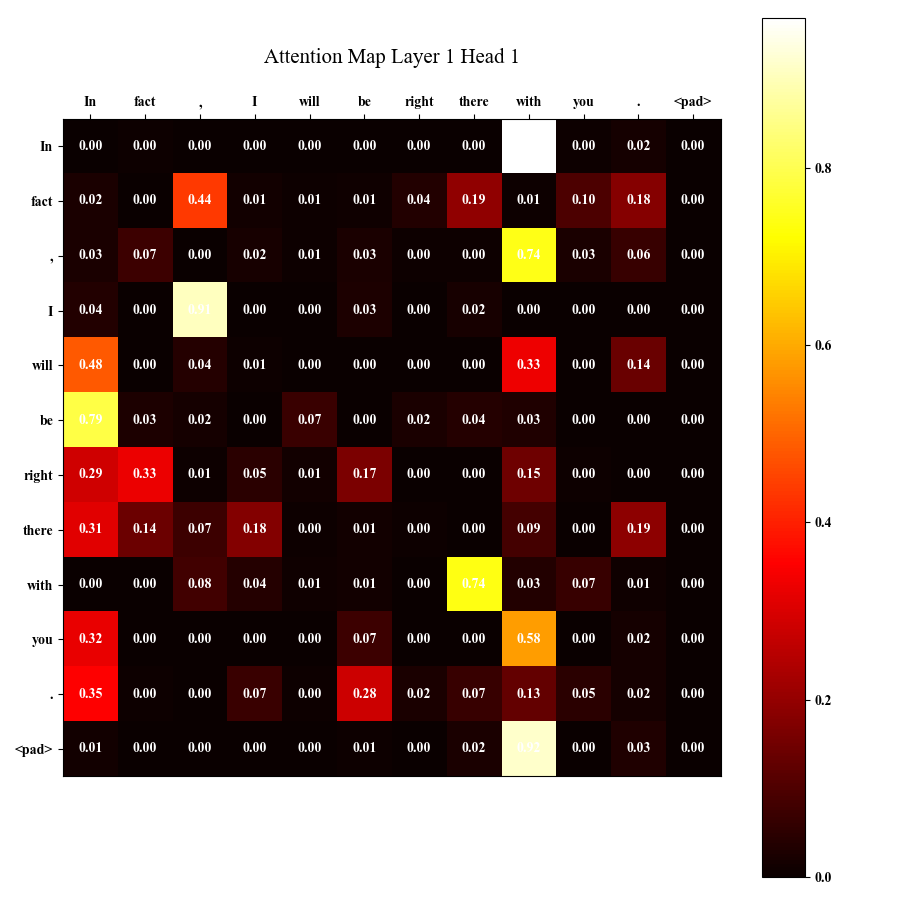
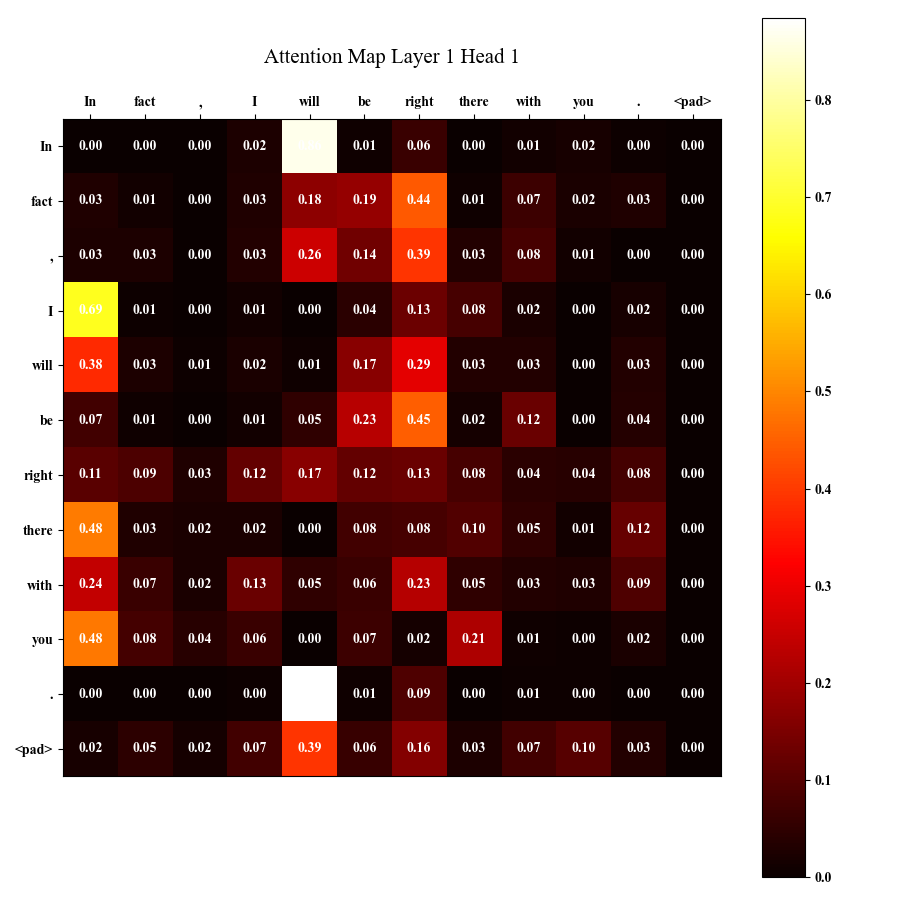
add cls token for cls

diff --git a/PA2/main.py b/PA2/main.py
@@ -2,9 +2,9 @@ import torch
 from torch.utils.data import DataLoader
 from torch.nn.utils.rnn import pad_sequence
 import os
-from tokenizer import SimpleTokenizer
-from dataset import SpeechesClassificationDataset, LanguageModelingDataset
-from transformer import ClassificationEncoder, Decoder, ClassificationEncoderAlibi, ClassificationEncoderWindowAttention, ClassificationEncoderDeberta
+from tokenizer import SimpleTokenizer, SimpleTokenizerWithCLS
+from dataset import SpeechesClassificationDataset, LanguageModelingDataset, SpeechesClassificationDatasetWithCLS
+from transformer import ClassificationEncoder, Decoder, ClassificationEncoderAlibi, ClassificationEncoderWindowAttention, ClassificationEncoderDeberta, ClassificationEncoderCLSToken
 from tqdm import tqdm
 import torch.nn as nn
 import torch.optim as optim
@@ -140,12 +140,20 @@ def main():
 
     print("Loading data and creating tokenizer ...")
     texts = load_texts("speechesdataset")
-    tokenizer = SimpleTokenizer(" ".join(texts))
+    if "cls_token" not in args.run:
+        tokenizer = SimpleTokenizer(" ".join(texts))
+    else:
+        tokenizer = SimpleTokenizerWithCLS(" ".join(texts))
     print("Vocabulary size is", tokenizer.vocab_size)
 
-    if "encoder" in args.run:
+    if "encoder" in args.run and "cls_token" not in args.run:
         train_CLS_dataset = SpeechesClassificationDataset(tokenizer, "speechesdataset/train_CLS.tsv")
         test_CLS_dataset = SpeechesClassificationDataset(tokenizer, "speechesdataset/test_CLS.tsv")
+        train_CLS_loader = DataLoader(train_CLS_dataset, batch_size=batch_size, collate_fn=collate_batch, shuffle=True)
+        test_CLS_loader = DataLoader(test_CLS_dataset, batch_size=batch_size, collate_fn=collate_batch, shuffle=True)
+    else:
+        train_CLS_dataset = SpeechesClassificationDatasetWithCLS(tokenizer, "speechesdataset/train_CLS.tsv")
+        test_CLS_dataset = SpeechesClassificationDatasetWithCLS(tokenizer, "speechesdataset/test_CLS.tsv")
         train_CLS_loader = DataLoader(train_CLS_dataset, batch_size=batch_size, collate_fn=collate_batch, shuffle=True)
         test_CLS_loader = DataLoader(test_CLS_dataset, batch_size=batch_size, collate_fn=collate_batch, shuffle=True)
 
@@ -177,6 +185,20 @@ def main():
 
     if args.run == "encoder_classic_mean":
         classification_encoder = ClassificationEncoder(
+            vocab_size=tokenizer.vocab_size,
+            embed_size=n_embd,
+            num_layers=n_layer,
+            heads=n_head,
+            device=device,
+            feed_forward_dimension=100,
+            dropout=0.1,
+            max_length=block_size,
+            pad_idx=0,
+            cls_hidden_size=n_hidden,
+            num_classes=n_output
+        )
+    elif args.run == "encoder_cls_token":
+        classification_encoder = ClassificationEncoderCLSToken(
             vocab_size=tokenizer.vocab_size,
             embed_size=n_embd,
             num_layers=n_layer,

diff --git a/PA2/transformer.py b/PA2/transformer.py
@@ -324,6 +324,41 @@ class ClassificationEncoder(nn.Module):
         out = self.classification_hidden(out)
         out = self.classification_head(out)
         return out, attention_matrices
+    
+
+class ClassificationEncoderCLSToken(nn.Module):
+    def __init__(self, vocab_size, embed_size, num_layers, heads, device, feed_forward_dimension, dropout, max_length, pad_idx, cls_hidden_size, num_classes):
+        super(ClassificationEncoderCLSToken, self).__init__()
+        self.embed_size = embed_size
+        self.device = device
+        self.word_embedding = nn.Embedding(vocab_size, embed_size)
+        # self.position_embedding = nn.Embedding(max_length, embed_size)
+        self.position_embedding = PositionalEncoding(embed_size, max_length)
+        self.layers = nn.ModuleList([TransformerBlock(embed_size, heads, dropout, feed_forward_dimension) for _ in range(num_layers)])
+        self.dropout = nn.Dropout(dropout)
+        self.classification_hidden = nn.Linear(embed_size, cls_hidden_size)
+        self.classification_head = nn.Linear(cls_hidden_size, num_classes)
+        self.pad_idx = pad_idx
+
+    def make_src_mask(self, src):
+        src_mask = (src != self.pad_idx).unsqueeze(1).unsqueeze(2)
+        # print(src_mask)
+        return src_mask.to(self.device)
+
+    def forward(self, x):
+        N, seq_length = x.shape
+        mask = self.make_src_mask(x)
+        # print(mask)
+        pos_embed = self.position_embedding().unsqueeze(0).expand(N, -1, -1)[:, :seq_length, :]
+        attention_matrices = []
+        out = self.dropout((self.word_embedding(x) + pos_embed))
+        for layer in self.layers:
+            out, attention = layer(out, out, out, mask)
+            attention_matrices.append(attention.detach().cpu())
+        cls_embedding = out[:, 0, :]
+        out = self.classification_hidden(cls_embedding)
+        out = self.classification_head(out)
+        return out, attention_matrices
 
 
 class ClassificationEncoderDeberta(nn.Module):

diff --git a/PA2/dataset.py b/PA2/dataset.py
@@ -40,6 +40,47 @@ class SpeechesClassificationDataset(Dataset):
         label_tensor = torch.tensor(label, dtype=torch.long)
 
         return input_ids, label_tensor
+    
+
+class SpeechesClassificationDatasetWithCLS(Dataset):
+    """
+    Dataset class for text classification task.
+    This the dataset you will use to train your encoder, and classifier jointly, 
+    end-to-end for the text classification task.
+
+    Args:
+        tokenizer (Tokenizer): The tokenizer used to encode the text.
+        file_path (str): The path to the file containing the speech classification data.
+
+    """
+
+    def __init__(self, tokenizer, file_path):
+        self.tokenizer = tokenizer
+        self.samples = []
+
+        if not os.path.exists(file_path):
+            raise FileNotFoundError(f"The file {file_path} does not exist.")
+
+        with open(file_path, "r", encoding="utf-8") as file:
+            for line in file:
+                label, text = line.strip().split("\t")
+                if label not in ("0", "1", "2"):
+                    raise ValueError(f"Invalid label: {label}")
+                if len(text.strip()) == 0:
+                    continue
+                self.samples.append((int(label), text))
+
+    def __len__(self):
+        return len(self.samples)
+
+    def __getitem__(self, index):
+        label, text = self.samples[index]
+        cls_token_id = self.tokenizer.stoi.get("<cls>", 2)
+        input_ids = [cls_token_id] + self.tokenizer.encode(text)
+        input_ids = torch.tensor(input_ids, dtype=torch.long)
+        label_tensor = torch.tensor(label, dtype=torch.long)
+
+        return input_ids, label_tensor
 
 
 class LanguageModelingDataset(torch.utils.data.Dataset):

diff --git a/PA2/tokenizer.py b/PA2/tokenizer.py
@@ -32,3 +32,35 @@ class SimpleTokenizer:
     def decode(self, indices):
         """Decode the list of indices back into text."""
         return " ".join([self.itos.get(index, "<unk>") for index in indices])
+
+
+class SimpleTokenizerWithCLS:
+    """
+    A simple tokenizer class that builds a vocabulary from the given text and encodes/decodes text into indices.
+    """
+
+    def __init__(self, text):
+        """Initialize the tokenizer with the initial text to build vocabulary."""
+        self.vocab = set()
+        self.stoi = {}
+        self.itos = {}
+        self.build_cls_vocab(text)
+
+    def build_cls_vocab(self, text):
+        tokens = word_tokenize(text)
+        self.vocab = set(tokens)
+        self.vocab_size = len(self.vocab) + 3
+        self.stoi = {word: i for i, word in enumerate(self.vocab, start=3)}
+        self.stoi["<pad>"] = 0
+        self.stoi["<unk>"] = 1
+        self.stoi["<cls>"] = 2
+        self.itos = {i: word for word, i in self.stoi.items()}
+
+    def encode(self, text):
+        """Encode the text into a list of indices."""
+        tokens = word_tokenize(text)
+        return [self.stoi.get(word, self.stoi["<unk>"]) for word in tokens]
+
+    def decode(self, indices):
+        """Decode the list of indices back into text."""
+        return " ".join([self.itos.get(index, "<unk>") for index in indices])
